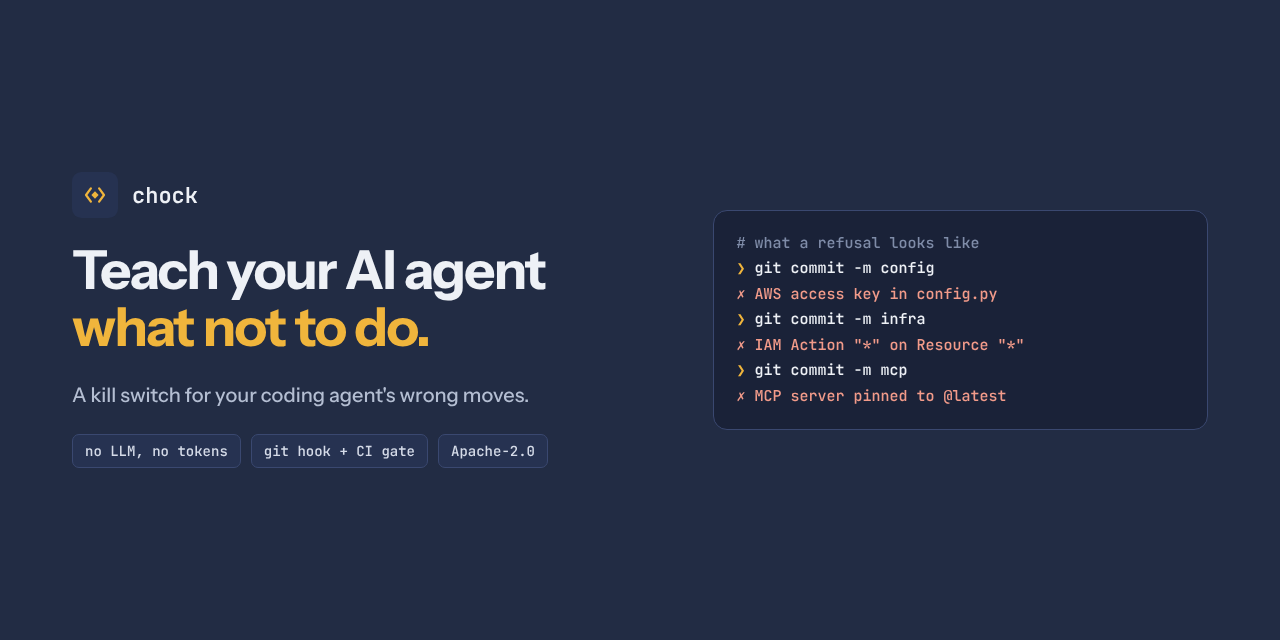
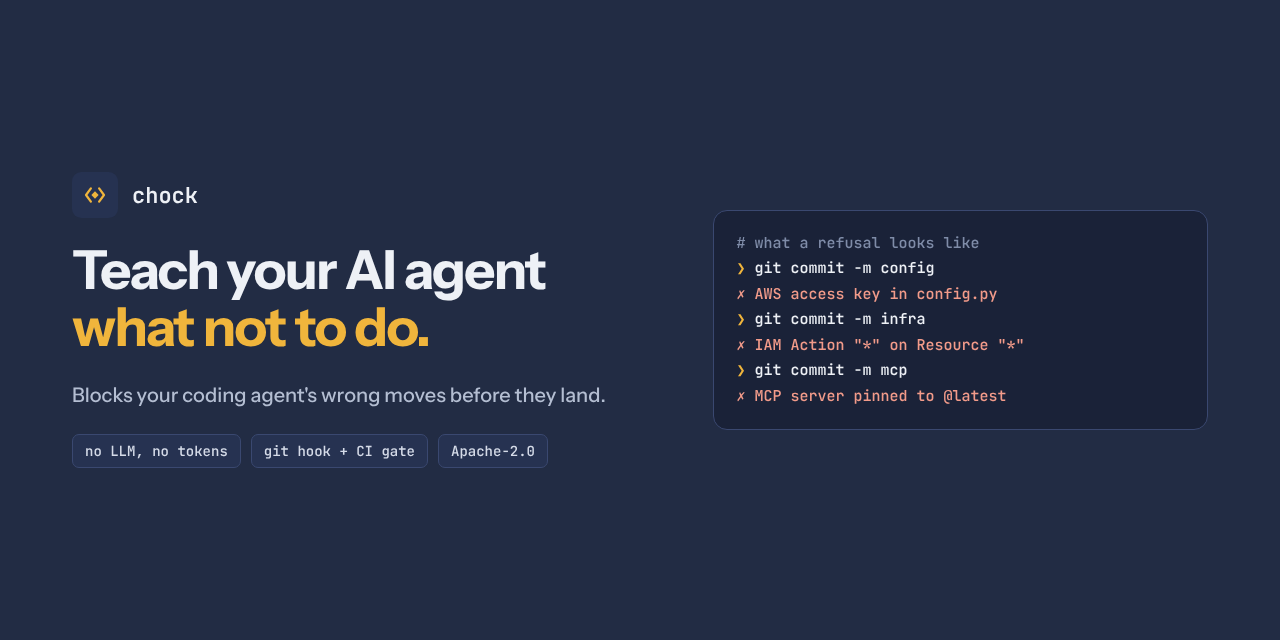
Replace the kill-switch tagline with "before they land" (TAG-2)
"Blocks your coding agent's wrong moves before they land." replaces
"A kill switch for your coding agent's wrong moves." in the README
tagline, hero alt and sub-line, llms.txt, the PyPI summary, the
CITATION.cff abstract, the marketplace DESCRIPTION and the chock/org
social banners (re-rendered with render.mjs). Devin's marketplace
description uses the CI form: "Blocks your Devin agent's wrong moves
before they merge."

Changed region(s): [[0.0625, 0.5938, 0.4688, 0.6562]]

diff --git a/src/chock/plugin/marketplace_devin.py b/src/chock/plugin/marketplace_devin.py
@@ -19,7 +19,7 @@ DEVIN_ROOT_MANIFEST_REL = Path(".devin-plugin/plugin.json")
 #: Kept apart from marketplace_core.DESCRIPTION: Devin's text must never claim "enforces"
 #: (the vendor's plugin hooks are fail-open by design).
 DEVIN_DESCRIPTION = (
-    "A best-effort kill switch for your Devin agent's wrong moves. Generated from the chock-catalog; "
+    "Blocks your Devin agent's wrong moves before they merge. Generated from the chock-catalog; "
     "each plugin states whether it is best-effort in this client or advisory."
 )
 

diff --git a/src/chock/plugin/marketplace_core.py b/src/chock/plugin/marketplace_core.py
@@ -67,7 +67,7 @@ def collect_entries(dist_root: Path, tree: str = CLAUDE_TREE) -> list[dict[str, 
 
 
 DESCRIPTION = (
-    "A kill switch for your coding agent's wrong moves. Generated from the chock-catalog; "
+    "Blocks your coding agent's wrong moves before they land. Generated from the chock-catalog; "
     "each plugin states whether it enforces in this client or is advisory."
 )
 

diff --git a/README.md b/README.md
@@ -1,14 +1,14 @@
 <div align="center">
 
-<p><img src="https://raw.githubusercontent.com/open-coder-ai/chock/main/docs/assets/readme/cover-chock.png" alt="chock: a kill switch for your coding agent's wrong moves." width="100%"></p>
+<p><img src="https://raw.githubusercontent.com/open-coder-ai/chock/main/docs/assets/readme/cover-chock.png" alt="chock: blocks your coding agent's wrong moves before they land." width="100%"></p>
 
 </div>
 
 # Teach your AI agent what not to do.
 
-A kill switch for your coding agent's wrong moves.
+Blocks your coding agent's wrong moves before they land.
 
-Chock kills that action, nothing else: no suggestions, no rewrites.
+Chock blocks that action, nothing else: no suggestions, no rewrites.
 
 [chock](https://github.com/open-coder-ai/chock) · [chock-catalog](https://github.com/open-coder-ai/chock-catalog) · chock.sh (launching soon)
 

diff --git a/changelog.d/tag-2-tagline.md b/changelog.d/tag-2-tagline.md
@@ -1,0 +1,6 @@
+- **Tagline: "Blocks your coding agent's wrong moves before they land."** It replaces "A kill switch for
+  your coding agent's wrong moves.", since Chock blocks one action and never stops the agent. Changed in the
+  README (tagline, hero alt; the sub-line now reads "Chock blocks that action"), `llms.txt`, the PyPI
+  summary, the CITATION.cff abstract, the chock and org social banners, and the generated marketplace
+  description. The Devin marketplace description reads "Blocks your Devin agent's wrong moves before they
+  merge."
